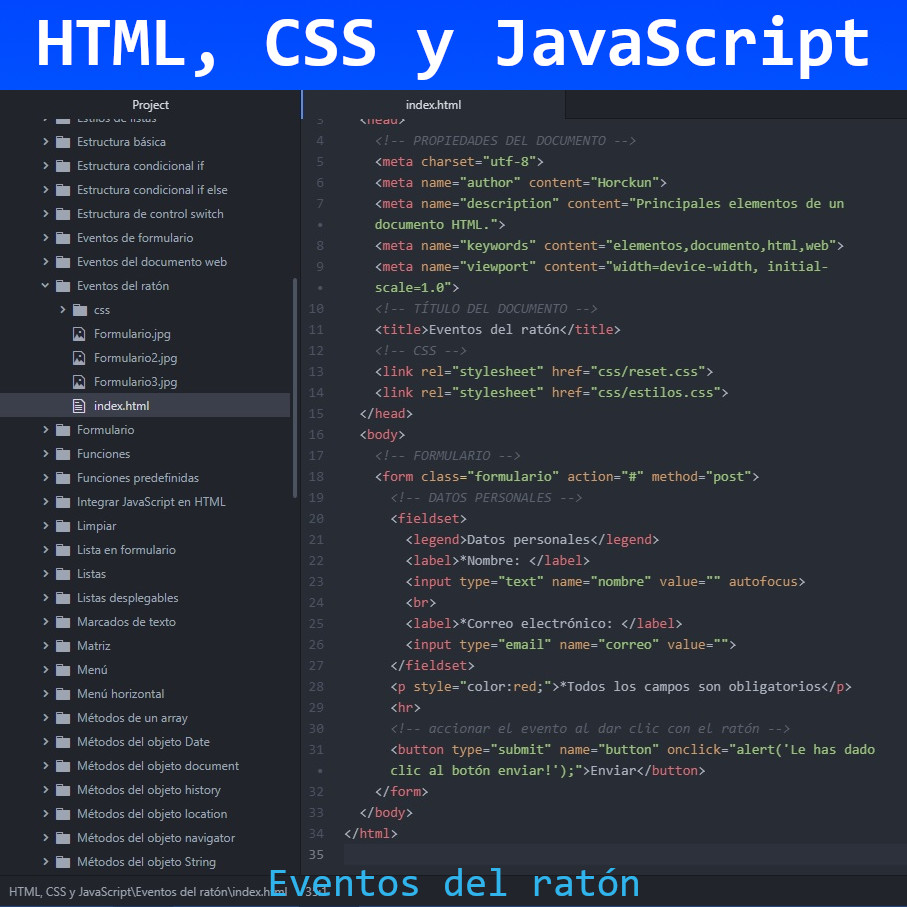
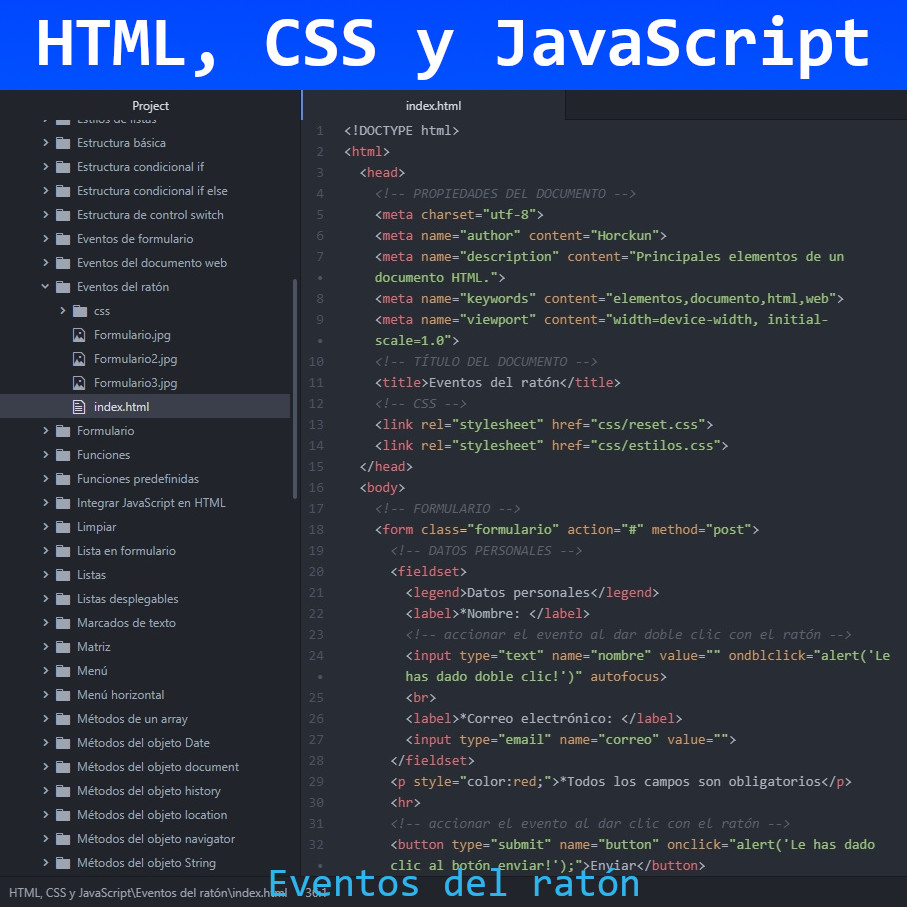
Eventos del ratón
Eventos del ratón en JavaScript

diff --git a/HTML, CSS y JavaScript/Eventos del ratón/index.html b/HTML, CSS y JavaScript/Eventos del ratón/index.html
@@ -20,7 +20,8 @@
       <fieldset>
         <legend>Datos personales</legend>
         <label>*Nombre: </label>
-        <input type="text" name="nombre" value="" autofocus>
+        <!-- accionar el evento al dar doble clic con el ratón -->
+        <input type="text" name="nombre" value="" ondblclick="alert('Le has dado doble clic!')" autofocus>
         <br>
         <label>*Correo electrónico: </label>
         <input type="email" name="correo" value="">
